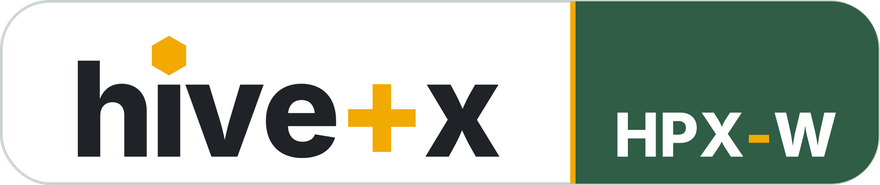
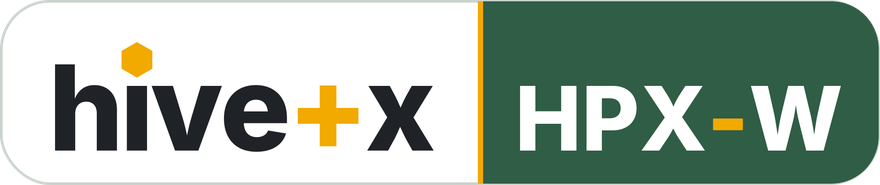
HPX-W の横長ステッカー: HPX-W の字の上下を hive+x の x にそろえる
Claude-Session: https://claude.ai/code/session_01LCC9B25pKk7N3FQPj8NtUw

Changed region(s): [[0.0614, 0.0, 0.9818, 1.0]]

diff --git a/brand/sticker/mk_sticker.py b/brand/sticker/mk_sticker.py
@@ -173,17 +173,19 @@ def D_white(n):
 
 def W_wide():
     # HPX-W 用の横長 (100mm × 21mm 想定、2026-11-21 TARO 要望で高さ 30mm の7割に): 左の白に hive+x、ハチミツ色の縦線、右の緑に白文字の HPX-W。
-    # D_white を横に並べかえた形
+    # D_white を横に並べかえた形。HPX-W の字の上下を hive+x の「x」の上下にそろえる (2026-11-21 TARO 要望)
     W, H, R = 2000, 420, 110
-    cut = 1300   # 白と緑の境目
-    # hive+x の字の下の線 (ベースライン、ロゴの y=0) に HPX-W の字の下をそろえる (2026-11-21 TARO 要望)
-    lw = 980; lk = lw / (LOGO_BOX[2] - LOGO_BOX[0])
-    base = (H / 2 + 10) - (LOGO_BOX[1] + LOGO_BOX[3]) / 2 * lk
+    XH = 1118                      # ロゴの x の高さ (ロゴの座標で。下はベースライン y=0)
+    lw = 880; lk = lw / (LOGO_BOX[2] - LOGO_BOX[0])
+    lcx, lcy = 110 + lw / 2, H / 2 + 10
+    base = lcy - (LOGO_BOX[1] + LOGO_BOX[3]) / 2 * lk   # hive+x のベースライン
+    xh = XH * lk                   # HPX-W の字の高さ = x の高さ
+    cut = 110 + lw + 100           # 白と緑の境目
     body = (f'<rect x="3" y="3" width="{W-6}" height="{H-6}" rx="{R}" fill="{WHITE}" stroke="{LINE}" stroke-width="6"/>'
-            + logo_g(cut / 2, H / 2 + 10, lw, CHAR)
+            + logo_g(lcx, lcy, lw, CHAR)
             + f'<path fill="{FOREST}" d="M{cut} 3H{W-R}A{R-3} {R-3} 0 0 1 {W-3} {R}V{H-R}A{R-3} {R-3} 0 0 1 {W-R} {H-3}H{cut}Z"/>'
             + f'<rect x="{cut-4}" y="3" width="12" height="{H-6}" fill="{HONEY}"/>'
-            + dev_g('W', (cut + 6 + W - 3) / 2, base - 100 / 2, height=100, width=W - cut - 140))
+            + dev_g('W', (cut + 6 + W - 3) / 2, base - xh / 2, height=xh))
     return (f'<svg xmlns="http://www.w3.org/2000/svg" viewBox="0 0 {W} {H}" width="100mm" height="21mm">'
             + body + '</svg>')
 
